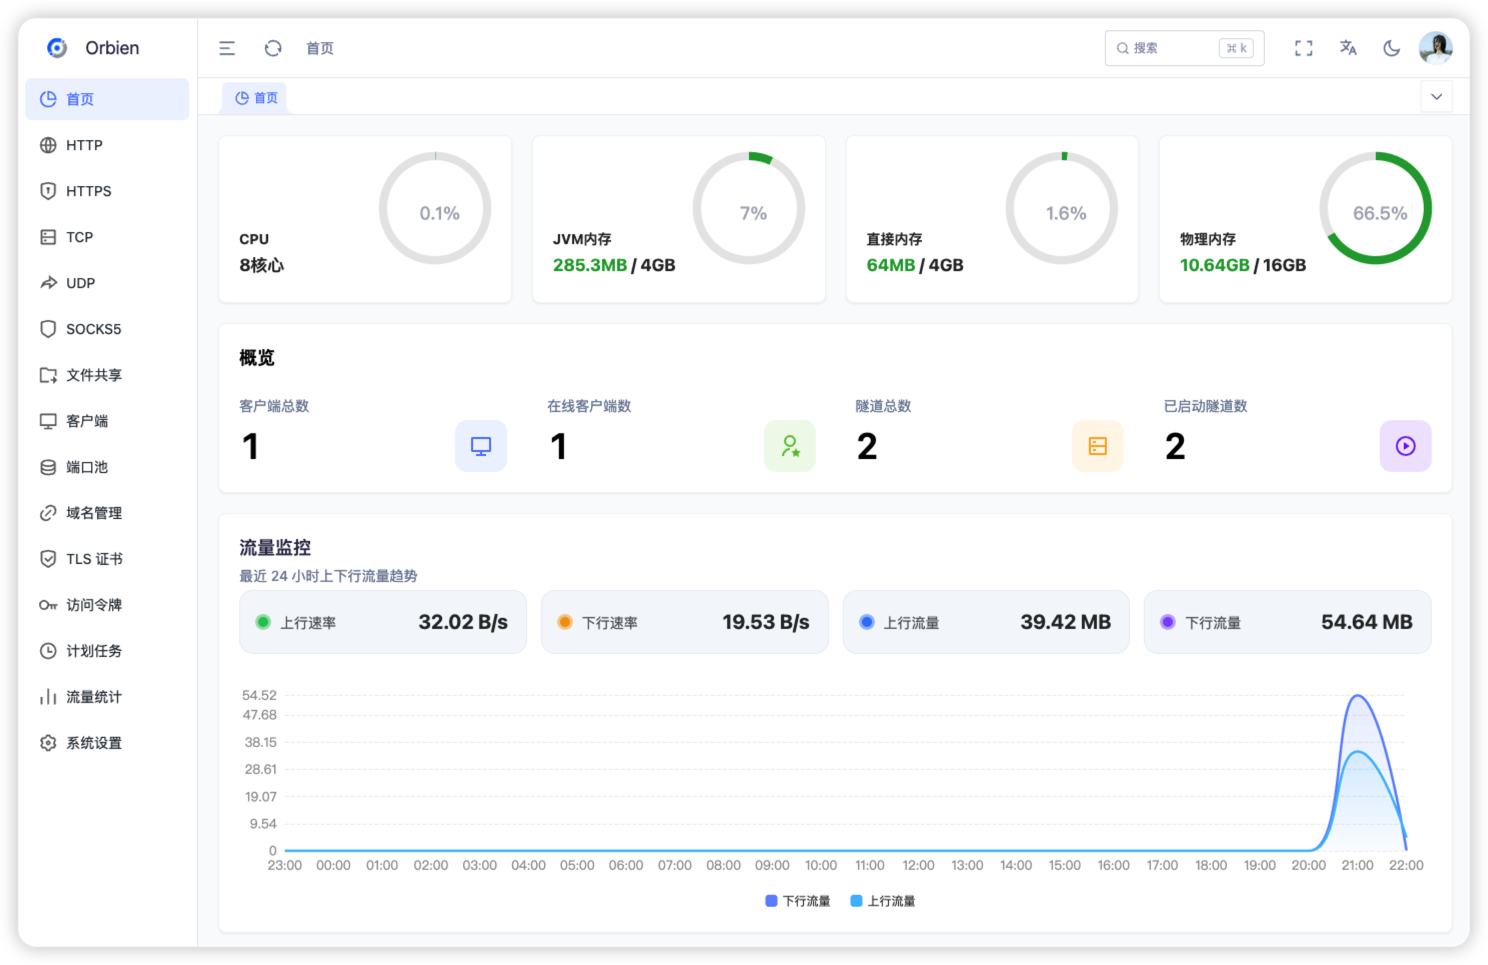
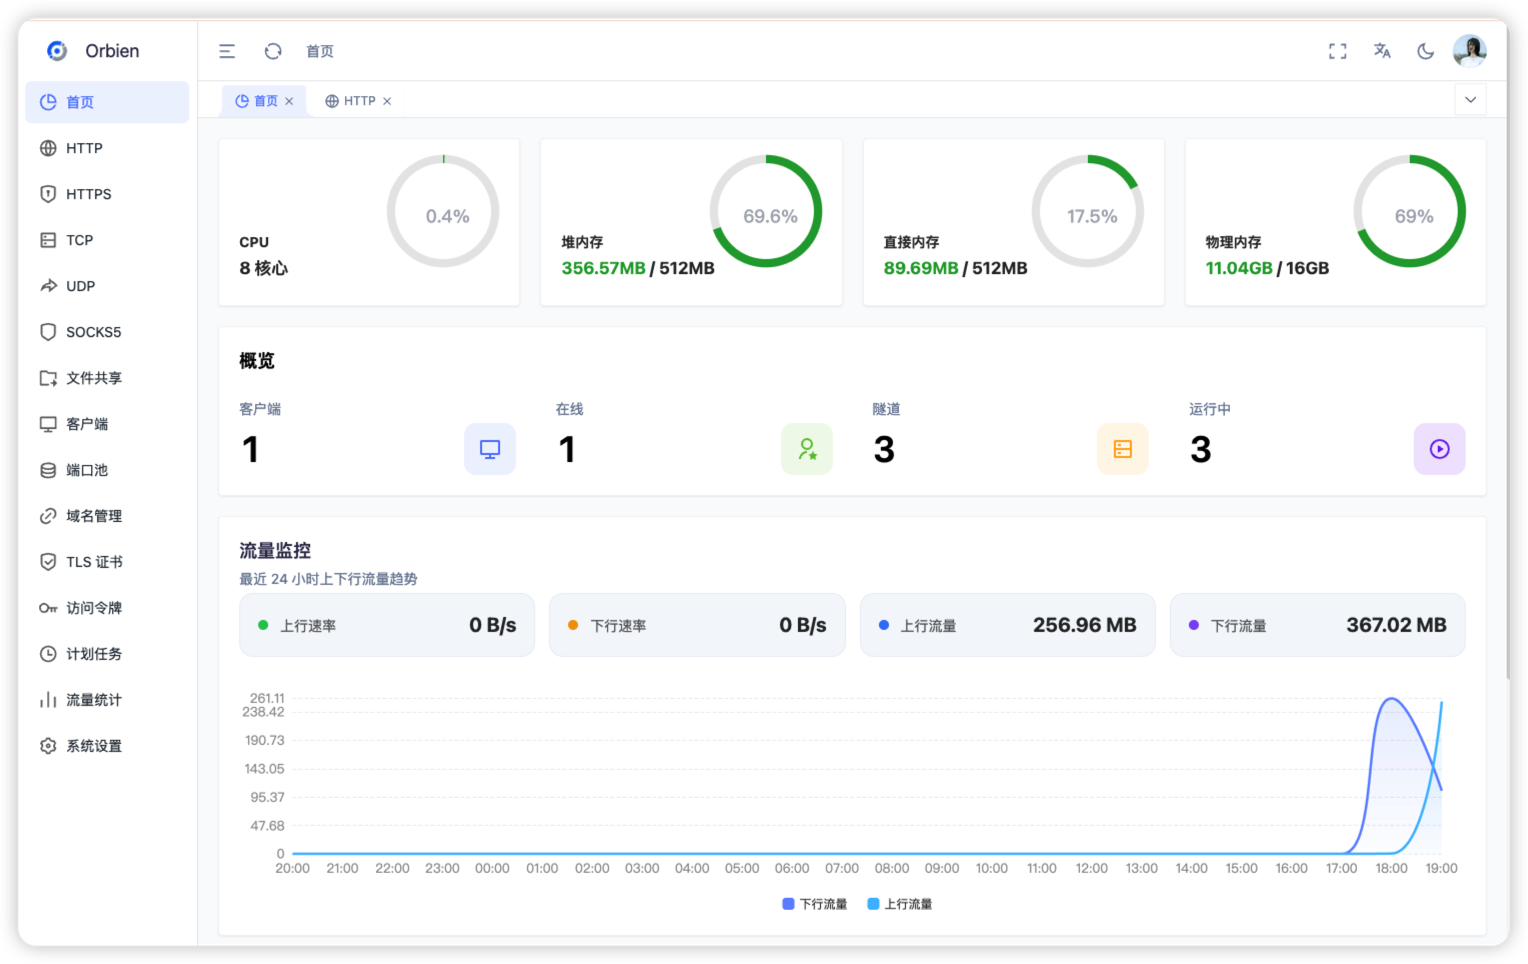
docs: 更新文档

diff --git a/README_ZH.md b/README_ZH.md
@@ -44,7 +44,7 @@
   <a href="https://stackoak.com/"><strong>在线演示</strong></a>
 </div>
 
-![dashboard.png](doc/image/dashboard.png)
+![dashboard.png](doc/image/dashboard_ZH.png)
 
 ## 一、介绍
 

diff --git a/docs/docs/roadmap.md b/docs/docs/roadmap.md
@@ -4,4 +4,5 @@
 - [x] HTTP(S)请求重放
 - [ ] P2P打洞
 - [ ] KCP协议传输
-- [ ] 服务端二进制
+- [ ] OIDC隧道鉴权
+- [ ] 采用Rust重写服务端代理层
